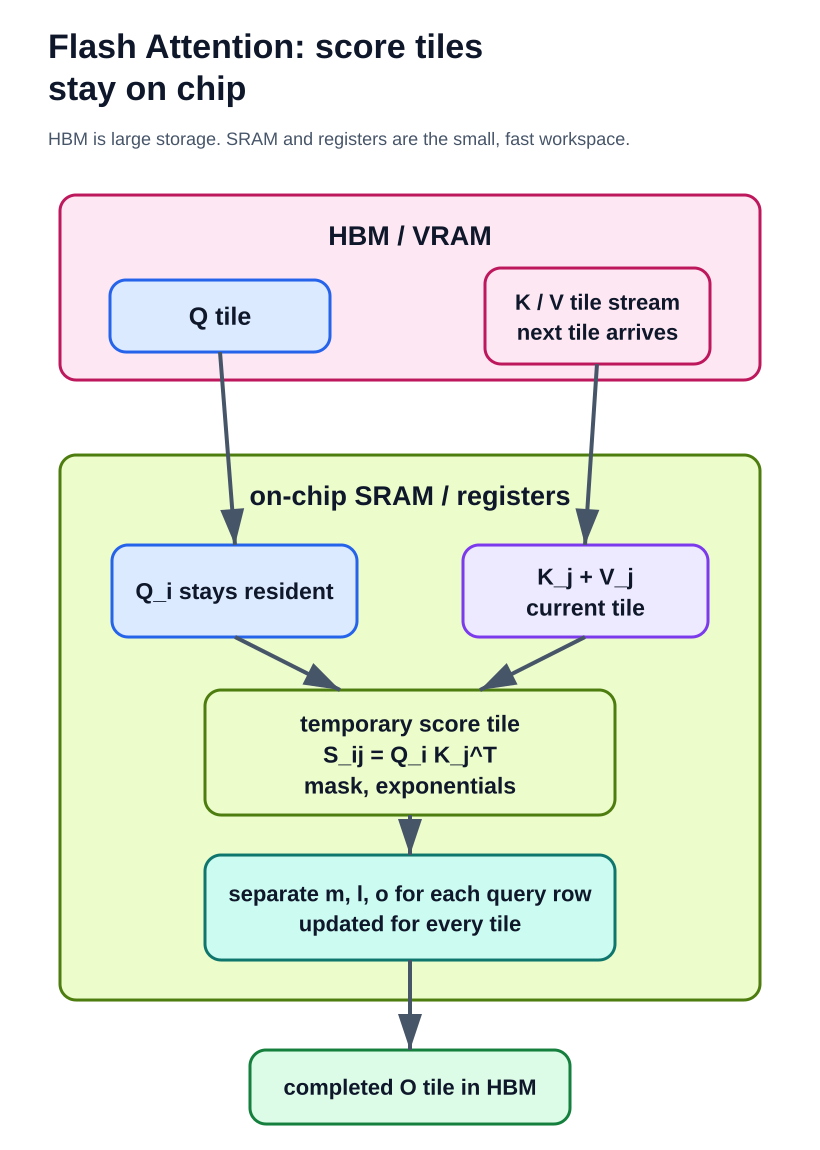
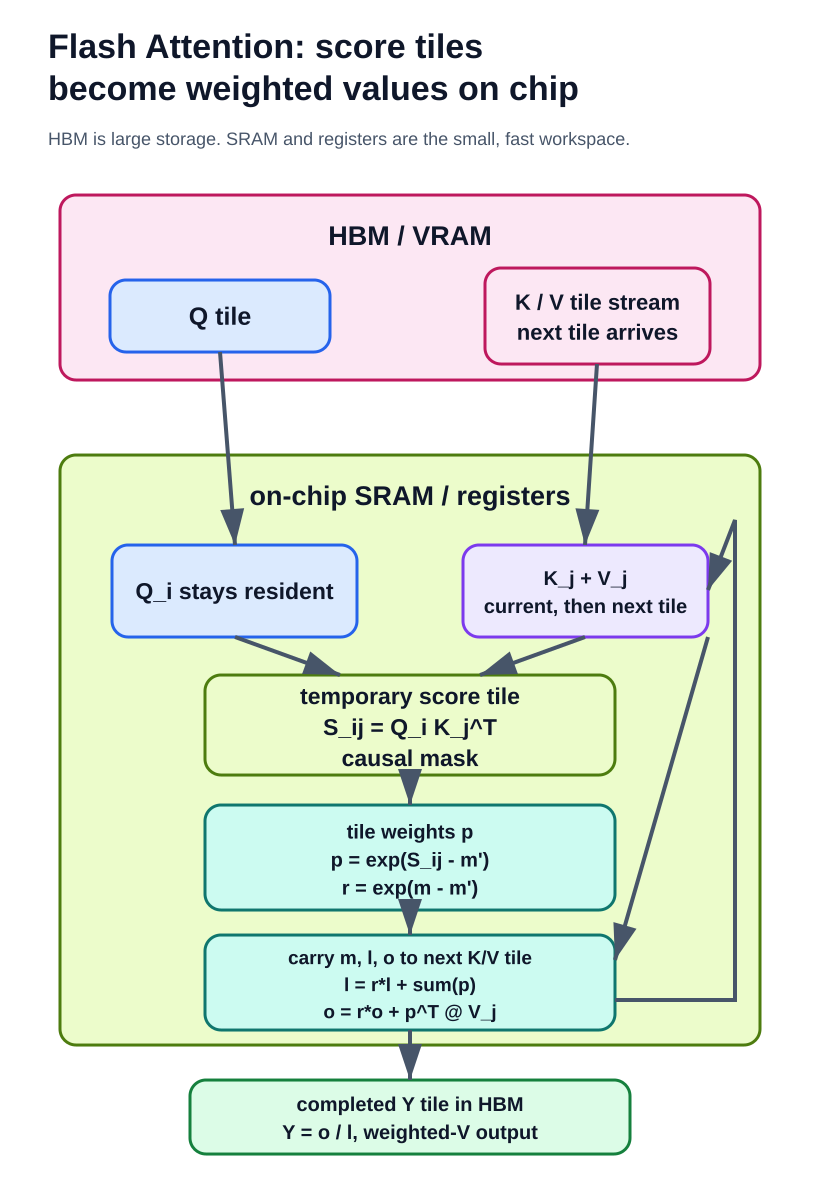
Clarify Flash Attention tiled output flow

Changed region(s): [[0.061, 0.0304, 0.9451, 1.0], [0.7927, 0.6391, 0.8232, 0.7]]

diff --git a/scripts/flash-attention-diagrams.py b/scripts/flash-attention-diagrams.py
@@ -46,6 +46,11 @@ def arrow(parts, x1, y1, x2, y2, label=None, label_y=None):
              label, 20, 600, "middle", C["muted"])
 
 
+def polyarrow(parts, points):
+    path = " L".join(f"{x},{y}" for x, y in points)
+    parts.append(f'<path d="M{path}" stroke="{C["line"]}" stroke-width="4" fill="none" marker-end="url(#arrow)"/>')
+
+
 def tag(parts, x, y, value, fill, stroke):
     width = max(110, len(value) * 15 + 34)
     parts.append(f'<rect x="{x}" y="{y}" width="{width}" height="38" rx="19" fill="{fill}" stroke="{stroke}" stroke-width="2"/>')
@@ -88,11 +93,11 @@ def tile_redraw():
 
 def tiled_flow():
     parts = open_svg(
-        820, 1150, "Flash Attention keeps tile-local work on chip",
-        "HBM provides a Q tile and a stream of K and V tiles. On-chip SRAM retains the Q tile, forms temporary score tiles, and separately updates m, l, and o for every query row. Only a completed output tile returns to HBM.",
+        820, 1180, "Flash Attention turns score tiles into weighted-value output on chip",
+        "HBM provides a Q tile and a stream of K and V tiles. On-chip SRAM turns each temporary score tile S i j into tile weights p, immediately multiplies p by the current value tile, and accumulates the resulting weighted value vector in o. The m, l, o state stays on chip and carries into each next K and V tile. After the final tile, Y equals o divided by l returns to HBM.",
     )
     text(parts, 48, 58, "Flash Attention: score tiles", 34, 700)
-    text(parts, 48, 100, "stay on chip", 34, 700)
+    text(parts, 48, 100, "become weighted values on chip", 34, 700)
     text(parts, 48, 145, "HBM is large storage. SRAM and registers are the small, fast workspace.", 18, color=C["muted"])
 
     parts.append(f'<rect x="60" y="195" width="700" height="185" rx="16" fill="{C["hbm"]}" stroke="{C["hs"]}" stroke-width="3"/>')
@@ -100,20 +105,24 @@ def tiled_flow():
     box(parts, 110, 280, 220, 72, "Q tile", C["q"], C["qs"], 25)
     box(parts, 485, 268, 225, 96, "K / V tile stream\nnext tile arrives", C["hbm"], C["hs"], 22)
 
-    parts.append(f'<rect x="60" y="455" width="700" height="545" rx="16" fill="{C["sram"]}" stroke="{C["srs"]}" stroke-width="3"/>')
+    parts.append(f'<rect x="60" y="455" width="700" height="590" rx="16" fill="{C["sram"]}" stroke="{C["srs"]}" stroke-width="3"/>')
     text(parts, 410, 505, "on-chip SRAM / registers", 27, 700, "middle")
     box(parts, 112, 545, 245, 92, "Q_i stays resident", C["q"], C["qs"], 23)
-    box(parts, 463, 545, 245, 92, "K_j + V_j\ncurrent tile", C["k"], C["ks"], 23)
-    box(parts, 205, 690, 410, 125, "temporary score tile\nS_ij = Q_i K_j^T\nmask, exponentials", C["sram"], C["srs"], 23)
-    box(parts, 205, 855, 410, 105, "separate m, l, o for each query row\nupdated for every tile", C["state"], C["ss"], 22)
+    box(parts, 463, 545, 245, 92, "K_j + V_j\ncurrent, then next tile", C["k"], C["ks"], 20)
+    box(parts, 205, 675, 410, 100, "temporary score tile\nS_ij = Q_i K_j^T\ncausal mask", C["sram"], C["srs"], 23)
+    box(parts, 205, 805, 410, 105, "tile weights p\np = exp(S_ij - m')\nr = exp(m - m')", C["state"], C["ss"], 20)
+    box(parts, 205, 935, 410, 95, "carry m, l, o to next K/V tile\nl = r*l + sum(p)\no = r*o + p^T @ V_j", C["state"], C["ss"], 19)
 
-    box(parts, 250, 1050, 320, 74, "completed O tile in HBM", "#dcfce7", "#15803d", 22)
+    box(parts, 190, 1080, 440, 74, "completed Y tile in HBM\nY = o / l, weighted-V output", "#dcfce7", "#15803d", 20)
     arrow(parts, 220, 352, 235, 545)
     arrow(parts, 597, 364, 585, 545)
-    arrow(parts, 235, 637, 340, 690)
-    arrow(parts, 585, 637, 480, 690)
-    arrow(parts, 410, 815, 410, 855)
-    arrow(parts, 410, 960, 410, 1050)
+    arrow(parts, 235, 637, 340, 675)
+    arrow(parts, 585, 637, 480, 675)
+    arrow(parts, 410, 775, 410, 805)
+    arrow(parts, 410, 910, 410, 935)
+    arrow(parts, 708, 637, 615, 960)
+    polyarrow(parts, [(615, 1000), (735, 1000), (735, 520), (708, 590)])
+    arrow(parts, 410, 1030, 410, 1080)
     save("flash-tiled-flow.svg", parts)
 
 

diff --git a/_posts/2026-09-08-flash-attention-tiled.md b/_posts/2026-09-08-flash-attention-tiled.md
@@ -42,7 +42,7 @@ For one attention head, use these names consistently:
 - `d` is `head_size`: the number of components in every query, key, and value vector for one head.
 - `Q`, `K`, and `V` are the query, key, and value tensors. Each has shape `(B, H, T, d)`.
 
-For each query row, `S` names its raw score matrix, `P` the softmax probability matrix, and `O` the output after probabilities mix the value vectors.
+For each query row, `S` names its raw score matrix, `P` the softmax probability matrix, and `Y` the final output: a weighted sum of value vectors.
 
 The score matrix for one head is:
 
@@ -305,11 +305,15 @@ The FlashAttention paper uses tiles of `Q`, `K`, and `V` that fit in on-chip mem
 
 <div style="margin: 1.5em 0; text-align: center;">
   <img src="/images/flash-attention/flash-tiled-flow.png"
-       alt="Flash Attention tiled dataflow. HBM contains a Q tile, successive K and V tiles, and the completed output tile. On-chip SRAM holds the Q tile, current K and V tile, temporary score tile, and separate m l o state for each query row. Only the completed output tile is written back."
+       alt="Flash Attention tiled dataflow. A score tile S i j becomes tile weights p, which are immediately multiplied by the current value tile V j. The result p transpose times V j updates vector o for each row. That row's m l o state carries to the next K V tile. After the final tile, Y equals o divided by l is written as the weighted-value output tile in HBM."
        style="max-width: 100%; height: auto;"/>
 </div>
 
-*Figure 5. HBM is the large storage layer. SRAM and registers are the small, fast workspace. The temporary score tile lives only in that workspace.*
+*Figure 5. `S_ij` becomes tile weights `p`; the kernel immediately forms `p^T @ V_j` and adds that weighted value vector to `o`. The row's `m`, `l`, and `o` carry into the next K/V tile. If the tile finds a larger maximum, `r` rescales the carried `l` and `o` first. After the last tile, `Y = o / l` is the final weighted-value output written to HBM.*
+
+`m`, `l`, and `o` are not reset between K/V tiles. They carry the partial result from one tile to the next. Only after the final K/V tile does the kernel divide `o` by `l` to form `Y`.
+
+Lower-case `o` is the running, unnormalized weighted-value numerator. Upper-case `Y` is the final weighted-value output after the division by `l`.
 
 For one pair of tiles, the kernel performs these operations before moving on:
 
